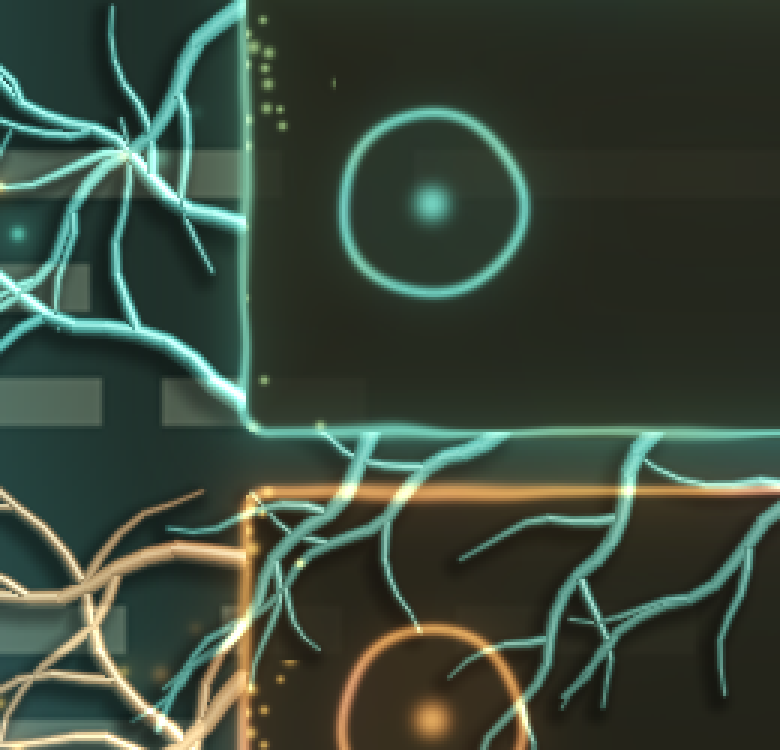
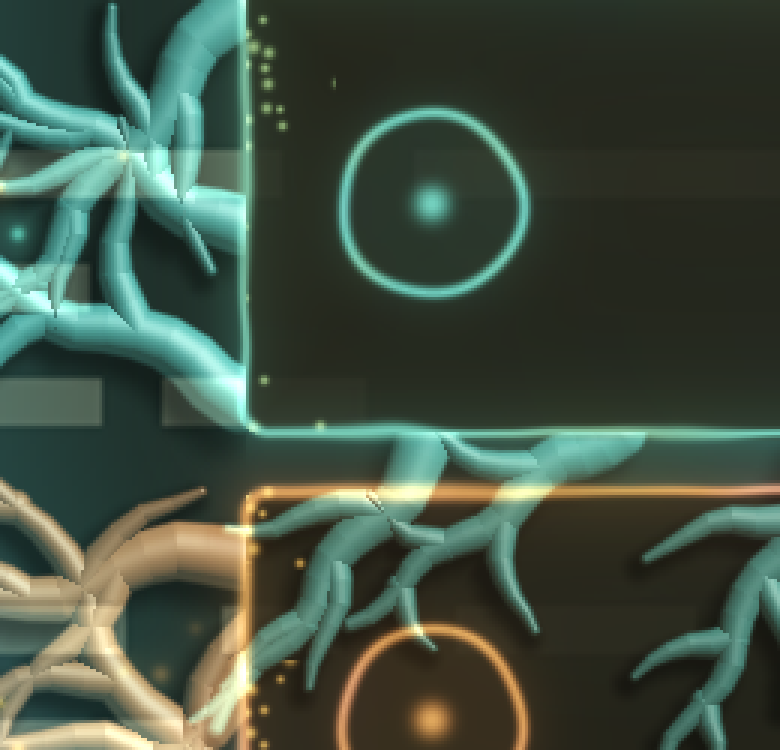
Growth: roots three times thicker again, tapered to points, shaded without seams
Radius times three (about 4.9 to 5.5 px at the base on the left), tapering to 28% so they end in points; the bottom roots thinned to one per
40 px of width. At this size the shading showed the joins between segments (and, when ties went to the first piece, as stacked beads): it now
comes from the direction to the nearest point on the spine and, where two pieces overlap, from the piece the pixel is nearer the middle of
(Tube.key), with the silhouettes joined. The lit side is toned down so it does not blow out flat. Render only.

Claude-Session: https://claude.ai/code/session_01RawmEkvnbUV4A7X3Nfo38z

Changed region(s): [[0.0, 0.552, 1.0, 1.0], [0.0, 0.0, 0.3385, 0.5827]]

diff --git a/docs/design/README.md b/docs/design/README.md
@@ -93,10 +93,13 @@ mock-up C, whose wavy outline and ragged strip read as glitches:
   settled on a trunk of 65% exponential (rate 3.5) and 35% gentle ease-out, with shoots starting from 16% of the life in steps of 16% and
   a more linear ease (power 1.5): gains of 34, 25, 13, 11, 8, 6 and 2 points per second (cumulative 34, 59, 72, 83, 91, 97 and 100).
   Fainter veins grow across the card from its right corners.
-  **Roots as lit 3D tubes** (after 0.5.0, `growth-roots-3d.png`): each segment is a round tube with a soft edge, about twice as thick as the
-  first lines (radius about 1.65 to 1.85 px at the base, tapering to 45% of that; the faint veins inside the card stay thin, so they
-  do not run over the text), and thinned out to make room (about one root per 24 px of the card's height on the left, one per 28 px of
-  its width below), shaded as a cylinder lit from the top right (the
+  **Roots as lit 3D tubes** (after 0.5.0, `growth-roots-3d.png`): each segment is a round tube with a soft edge, six times as thick as the
+  first lines (asked for in three steps: a little thicker, "at least twice as thick", "three times thicker now"; radius about 4.9 to 5.5 px at
+  the base on the left and 4.7 to 5.1 below, tapering to 28% of that so they end in points; the faint veins inside the card stay thin, so they do
+  not run over the text), and thinned out to make room (about one root per 24 px of the card's height on the left, one per 40 px of
+  its width below). Two rendering lessons at this size: shading each segment from its own axis shows the joins (and with ties settled by
+  coverage, as stacked beads), so the shading comes from the direction to the nearest point on the spine and, where two pieces overlap, from the
+  piece the pixel is nearer the middle of, with the silhouettes joined, shaded as a cylinder lit from the top right (the
   direction of the card's own light): a diffuse term, a soft specular highlight and a darker side away from the light, and a soft
   shadow they cast down and to the left (a little alpha, the only part that darkens; the roots inside the card cast none).
 - **No countdown line** (removed after 0.5.0, at the user's request): the roots grow over the toast's whole life and are the timer.

diff --git a/AGENTS.md b/AGENTS.md
@@ -312,7 +312,7 @@ uniform-parity contract); `curve()` is replaced by `tube()` (a round tube with a
 specular, and a shadow offset down-left), `over()` and `shoot()`; `vein()` returns `vec4(cover, diffuse, specular, shadow)`; the output now
 has **alpha > 0 for the shadow only** (premultiplied: light in rgb, darkening in alpha), so **`test/growth-test.sh`'s "alpha is 0 everywhere"
 check and its countdown checks are stale, and the roots test's thresholds are untested on thicker roots.** Committed without running the tests
-at the user's request; fix them before releasing. The root radius is `(0.60 + 0.16 * scale) * thick` px at the base: `thick` is 2 for the roots (the user asked for "at least twice as thick" after a first, too thin, attempt) and 1 for the faint veins inside the card. Roots are one per 24 px of the card's height on the left (3 to 6) and one per 28 px of its width below (5 to 18); the shadow offset grows with the radius.
+at the user's request; fix them before releasing. The root radius is `(0.60 + 0.16 * scale) * thick` px at the base: `thick` is 6 for the roots (the user asked in three steps: a little thicker, "at least twice as thick", then "three times thicker now", read as three times the current) and 1 for the faint veins inside the card; the taper is to 28% of the base. Roots are one per 24 px of the card's height on the left (3 to 6) and one per 40 px of its width below (4 to 14); `Tube` is a struct with a `key` (distance from the axis in radii) so overlapping pieces are shaded by the nearer-the-middle one; the shadow offset grows with the radius.
 
 ## Conventions
 

diff --git a/docs/runbooks/live-checklist.md b/docs/runbooks/live-checklist.md
@@ -195,7 +195,7 @@ flipping between the two with the same notifications. The design is `docs/design
 - [ ] the icon ring is very slightly irregular (it should read as organic, not as a lumpy circle)
 - [ ] **there is no countdown line** with this look: the bottom border is a plain border, and the roots are the timer (they are
       still growing until just before the toast goes)
-- [ ] the roots are **about twice as thick** as before (fewer of them: about one per 24 px of height on the left, 28 px of width below) and look **3D**: round tubes with a lit side towards the top right, a highlight and a soft shadow
+- [ ] the roots are **very thick** (about six times the first version: about 10 px across at the base, tapering to points; fewer of them: about one per 24 px of height on the left, 40 px of width below) and look **3D** and smooth (no visible joins or beading): round tubes with a lit side towards the top right, a highlight and a soft shadow
       down and to the left on the card and the wallpaper (say if they are too thick, the shading is too strong or too weak, or the
       shadow looks dirty)
 - [ ] a **critical** toast is ember (amber to rose), a **low** one a dark moss
